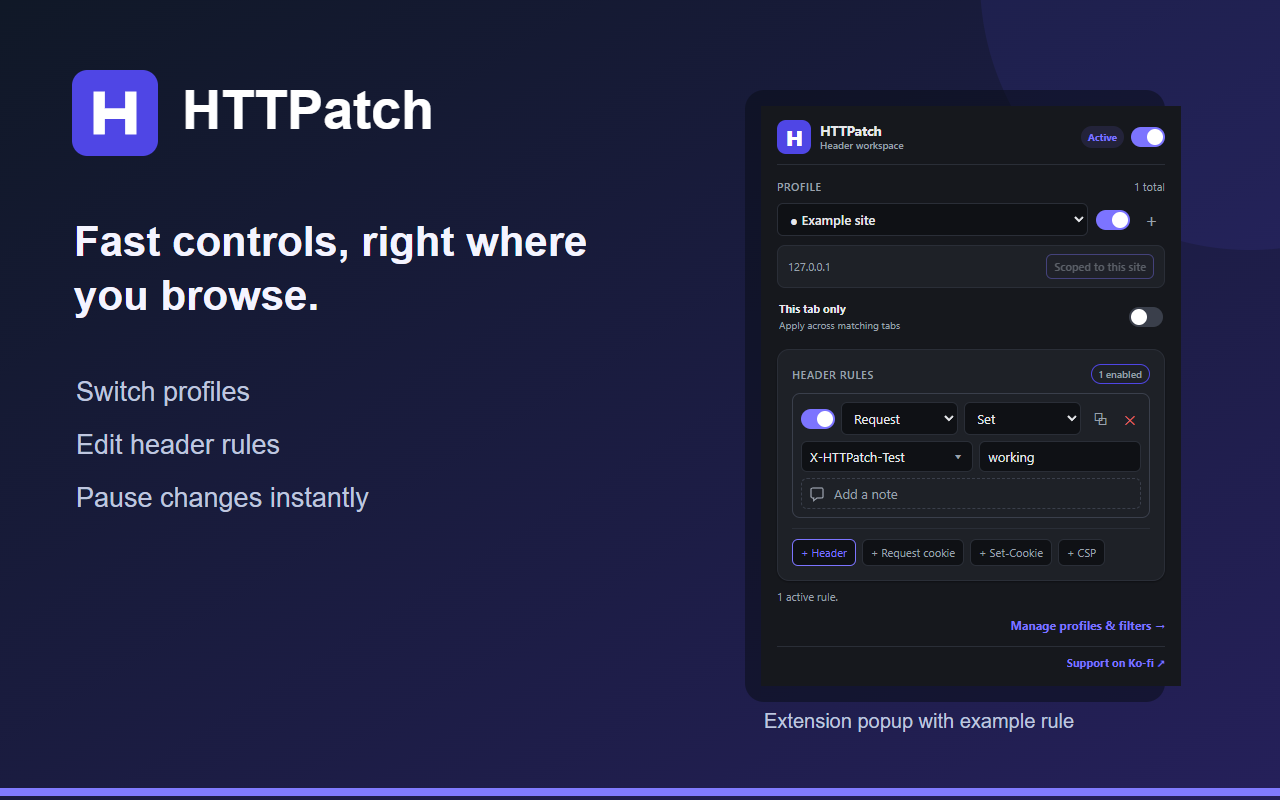
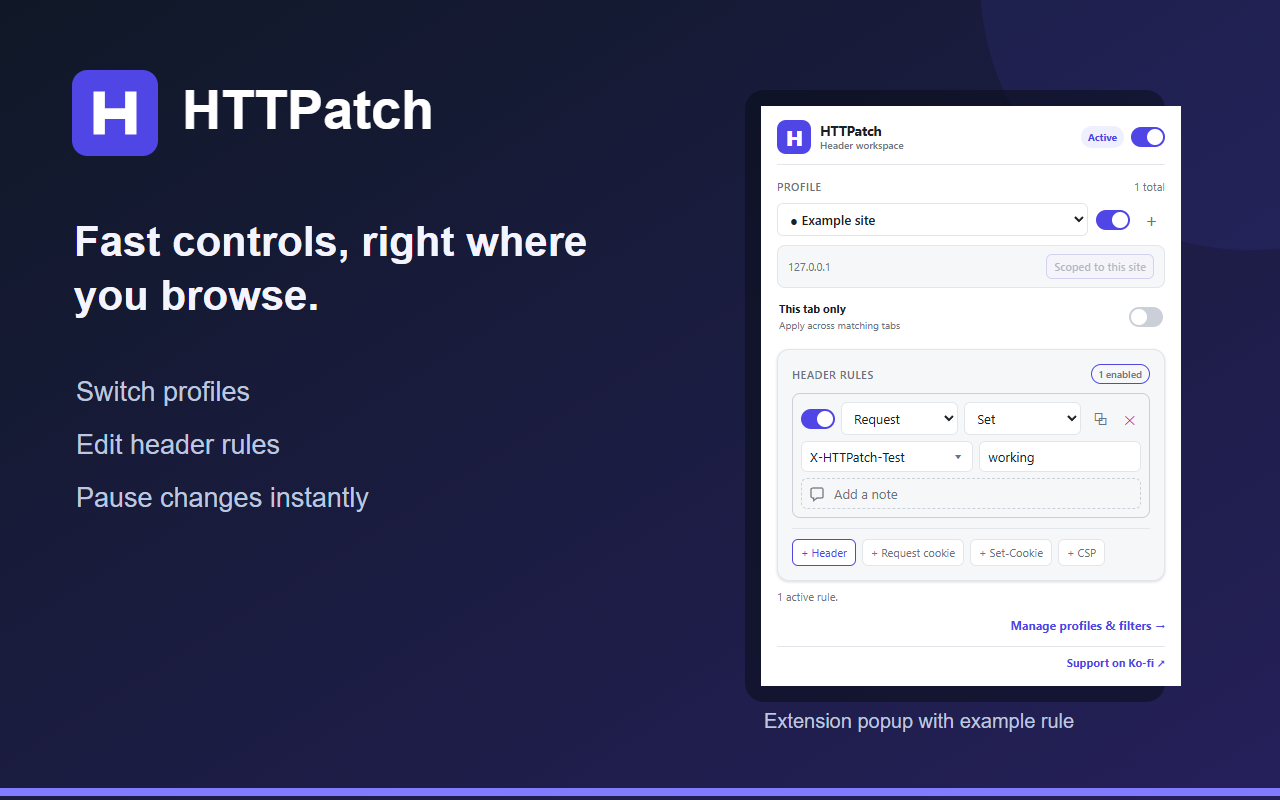
Prepare HTTPatch 1.0 release and privacy disclosures

Changed region(s): [[0.5938, 0.125, 0.9375, 0.875]]

diff --git a/docs/RELEASE_PREP.md b/docs/RELEASE_PREP.md
@@ -57,21 +57,42 @@ The extension package also contains an offline `privacy.html` page.
   tab's URL for site and tab shortcuts. Tab IDs stay in session storage only.
 - `alarms`: batch sync writes and check for changes from other devices.
 
+## Chrome Web Store privacy fields
+
+**Single purpose:** Let users create browser profiles that set, append or remove
+HTTP request and response headers for websites they choose.
+
+**Data handling:** Profiles can contain header values such as authentication tokens
+or cookies, notes, and URL/site filters. HTTPatch stores these locally and syncs
+profiles through the browser account by default. It does not send them to the
+developer or an analytics service. Opening the popup reads the current tab URL
+for the site shortcut; choosing that shortcut saves the domain as a filter.
+Describe these behaviours in the Privacy practices tab, including any applicable
+authentication, website and user-provided data categories. Do not claim that the
+extension handles no user data merely because it has no developer server.
+
+Use the published HTTPS privacy-page URL in the dashboard's privacy-policy field.
+The [Chrome Web Store privacy guidance](https://developer.chrome.com/docs/webstore/cws-dashboard-privacy)
+explains the single-purpose, permission and data-use fields.
+
 ## Steps before the first release
 
-1. Choose the HTTPatch release version. Update `package.json` and `package-lock.json`,
-   and add a matching dated section to `CHANGELOG.md`.
-2. Check [GitHub CI](https://github.com/LukeOsland1/HTTPatch/actions) and run the
+1. Use the prepared `1.0.0` version and notes in `CHANGELOG.md`. Check
+   [GitHub CI](https://github.com/LukeOsland1/HTTPatch/actions) and run the
    packaged browser test locally. Review the screenshots and listing copy.
-3. Create Chrome Web Store and, if wanted, Mozilla add-on listings. Keep their
-   IDs and signing credentials private.
-4. Publish a public HTTPS privacy-policy URL. The manual Pages workflow publishes
-   only `PRIVACY.md`; GitHub Pages must first be enabled for this repository.
-5. Push `v<version>` intentionally. The release workflow now rejects a tag that
+2. Publish the public HTTPS privacy page and run `npm run check:privacy` with
+   `PRIVACY_POLICY_URL` set to its address.
+3. Push `v1.0.0` intentionally. The release workflow rejects a tag that
    differs from `package.json` or has no changelog section, and creates a draft.
-6. Review the draft packages and notes. Publish the GitHub release and submit store
-   listings separately when ready. The Chrome Web Store workflow is manual and
-   assumes a personal listing configured for verified CRX uploads.
+4. Review the draft Chromium ZIP and notes, then publish the GitHub release when
+   the repository is ready to be public. A Firefox XPI is attached only when
+   Mozilla signing credentials are configured.
+5. Create the Chrome Web Store listing manually. Upload the Chromium ZIP, add the
+   prepared images and descriptions, complete the Privacy practices tab and
+   submit it for review. Keep the listing ID and credentials private.
+6. After the initial listing exists, configure and test the manual Chrome Web
+   Store workflow for updates. Automated deployment can be enabled after its
+   publisher and extension IDs have been verified.
 
 Do not add publisher tokens or signing keys to the repository. A signed Firefox
 XPI and authenticated Chrome Web Store upload require personal credentials; an

diff --git a/CHANGELOG.md b/CHANGELOG.md
@@ -2,23 +2,11 @@
 
 ## [Unreleased]
 
-- Move saved data and sync items to HTTPatch storage keys on upgrade.
-- Default to Light on new installs while keeping saved Dark and System preferences.
-- Remove redundant repository files, a platform-specific duplicate test and packaging outputs.
-- Refine the popup and options layouts, including a compact header editor and editor-first narrow view.
-- Suggest popular request and response header names while typing, with custom names still allowed.
-- Show storage load failures and restore saved values when a write fails.
-- Run a packaged-browser smoke test in CI and capture release screenshots.
-- Prepare store-size popup imagery and promotional graphics; simplify the in-extension footer.
-- Refresh the popup and options layout, add rule duplication and one-click site scoping.
-- Add tab-only session rules, structured cookie controls and a CSP policy helper.
-- Reject mismatched release tags or missing changelog notes.
-- Add Luke Osland credit and optional Ko-fi support.
-- Give Firefox its own extension identity.
-- Include the privacy policy and MIT licence in both browser packages.
-- Provide draft releases and manual store publishing.
-- Support packaging on Windows as well as macOS and Linux.
-- Prevent blank include filters from applying a scoped profile to every site.
-- Update development dependencies to clear the reported security advisories.
+## [1.0.0]
 
-No HTTPatch release has been published.
+- Create and manage profiles for request and response header rules, with pause controls, notes and rule duplication.
+- Scope profiles by URL, resource type, current site or browser tab.
+- Search common header names and use focused Cookie, Set-Cookie and Content-Security-Policy editors.
+- Import and export JSON profiles, and sync profiles through the browser account with first-sync merge controls. Sync is on by default and includes header values.
+- Choose Light, Dark or System appearance; Light is the default for new installs.
+- Include Chromium and Firefox packages, an offline privacy policy, an MIT licence and optional Ko-fi support.

diff --git a/PRIVACY.md b/PRIVACY.md
@@ -1,6 +1,6 @@
 # HTTPatch Privacy Policy
 
-_Last updated: 22 September 2026_
+_Last updated: 23 September 2026_
 
 HTTPatch is maintained by [Luke Osland](https://github.com/LukeOsland1). It modifies
 HTTP headers using rules you configure. It has no developer-operated server,
@@ -28,8 +28,8 @@ for the current browser session on this device. A tab-only profile without an
 assignment stays inactive, including after a restart or on another device.
 
 You can turn **Sync** off in the options page. Use **Remove synced copy** afterwards
-to delete previously uploaded data. Your local profiles remain. Uninstalling the
-extension clears its local storage but does not itself delete the synced copy.
+to delete previously uploaded data. Your local profiles remain. To ensure the
+synced copy is removed, do this before uninstalling the extension.
 
 ## Websites and permissions
 
@@ -37,13 +37,19 @@ HTTPatch uses `declarativeNetRequestWithHostAccess` to apply your header rules.
 Broad host access is requested because rules can target any website. Header changes
 are applied by the browser: HTTPatch does not read request or response bodies.
 When you open the popup, HTTPatch reads the current tab's URL to offer a site
-shortcut. It does not save that URL or send it to the developer.
+shortcut. Opening the popup alone does not save that URL. If you choose
+**Scope to this site**, the site's domain is saved as a profile filter and may
+be included in browser sync. HTTPatch does not send the URL to the developer.
 
 HTTPatch includes **no content scripts** and does not read page content, forms,
 browsing history or user activity.
 
 The `storage` permission saves settings and supports browser sync. The `alarms`
 permission schedules sync batches and periodic checks for profile changes.
+
+HTTPatch uses this data only to apply the rules you configure and to sync your
+profiles if enabled. The developer cannot read your profiles, header values or
+site filters, and does not use them for advertising.
 
 ## External links and donations
 

diff --git a/CONTRIBUTING.md b/CONTRIBUTING.md
@@ -66,7 +66,7 @@ Chrome Web Store publishing is a separate **manual** workflow. Configure the per
 script is for listings configured for verified CRX uploads. For a first manual listing,
 use the Chromium ZIP. No personal listing has been configured here.
 
-The privacy-page workflow is manual too. Enable GitHub Pages on your personal repository
-and run it to publish `PRIVACY.md`. `npm run check:privacy` compares the Markdown source
-with a public Markdown copy supplied through `PRIVACY_POLICY_URL`; it does not contact
-another repository. The extension also includes its own offline privacy page.
+The privacy-page workflow is manual too. It publishes only the generated HTML
+from `PRIVACY.md`. `npm run check:privacy` rebuilds that page and compares it with
+the public HTTPS URL supplied through `PRIVACY_POLICY_URL`. The extension also
+includes its own offline privacy page.
